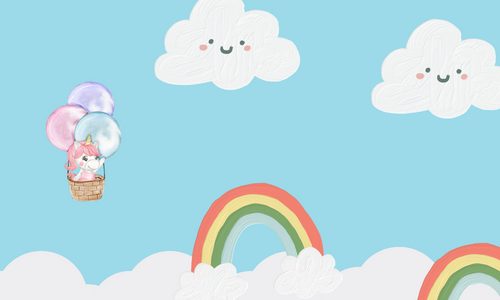
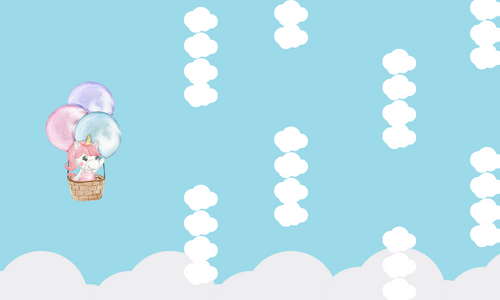
画像入れ込み

diff --git a/bird.js b/bird.js
@@ -1,13 +1,26 @@
 $(function(){
-	$window = $('.window'),
+  $window = $('.window'),
 	$bird = $('.bird'),
   fallTime = 1000,
   gapHeight = 150,
-  gameState = 2, /* 1:ゲーム中 ,2:ゲーム終了 */
+  gameState = 2,
   startTime = Date.now(),
   result = '0m',
   pipeId = 0;
+  var arg  = new Object;
+  url = location.search.substring(1).split('&');
+ 
+  for(i=0; url[i]; i++) {
+    var k = url[i].split('=');
+    arg[k[0]] = k[1];
+  }
   
+  var id = arg.mode;
+  $(".retry").attr('href', $('.retry').attr('href') + id);
+ 
+  if (id == 'boy') {
+    $(".window").addClass("boy").removeClass(".girl");
+  }
 
 	var int = setInterval(function(){
     if(gameState === 1){
@@ -22,10 +35,10 @@ $(function(){
     }
   }, 10);
 
-  /* マウスクリック */ 
-	$window.mousedown(function(){
+  $window.mousedown(function(){
     $('.start_btn').hide();
-    $('.window').addClass('scroll');
+    //$('.window').addClass('scroll');
+
 		birdFlap();
     if(gameState === 2){
       gameState = 1;
@@ -33,7 +46,7 @@ $(function(){
     }
 	});
   
-	$(window).keydown(function(e){
+  $(window).keydown(function(e){
 		if(e.keyCode === 32){
       $('.start_btn').hide();
 			birdFlap();
@@ -55,7 +68,7 @@ $(function(){
 	  }, 2050);
   }
   
-	function birdFlap(){
+  function birdFlap(){
     if(gameState === 1 || gameState === 2){
       $bird.css('transform', 'rotate(-20deg)');
 		  $bird.stop().animate({
@@ -71,21 +84,20 @@ $(function(){
           var end = Date.now();
           result = Math.floor((end - startTime)/1000) + 'm';
           $('.score').html(result);
+          $('.result').html(result);
         });
 	  	});
-    } 
+    }
 	}
 
-	function gravity(){
-    if(gameState === 1){
-      birdPercent = parseInt($bird.css('bottom')) / $window.height();
-      totalFallTime = fallTime * birdPercent;
-		  $bird.stop().animate({
-		  	bottom: '0'
-		  }, totalFallTime, 'linear');
-  
-      $bird.css('transform', 'rotate(90deg)');
-    }
+  function gravity(){
+    birdPercent = parseInt($bird.css('bottom')) / $window.height();
+    totalFallTime = fallTime * birdPercent;
+		$bird.stop().animate({
+			bottom: '0'
+		}, totalFallTime, 'linear');
+
+    $bird.css('transform', 'rotate(90deg)');
 	}
 
   /* おじゃま虫バーを表示 */
@@ -109,35 +121,33 @@ $(function(){
 		});
 	}
   
-  /* unicornの動きでGameOver条件*/
+
   function birdPos(){
-    /* 下にくっついたらGameover*/
     if(parseInt($bird.css('bottom')) === 0 || parseInt($bird.css('top')) === 0){
       gameEnd();
     }
-    /* パイプにくっついたらGameover*/
-    $(".pipe").each(function(i, elem) {
-      curPipe = $(elem);
-  
-      if(($bird.offset().left + $bird.width()) >= curPipe.offset().left && $bird.offset().left <= (curPipe.offset().left + curPipe.width())){
-        pipeTop = $(elem).children('.topHalf');
-        pipeBottom = $(elem).children('.bottomHalf');
+    
+    curPipe = $('.pipe:nth-of-type(5)');
+    if(curPipe.length > 0){
+      pipeTop = $('.pipe:nth-of-type(5) .topHalf');
+      pipeBottom = $('.pipe:nth-of-type(5) .bottomHalf');
 
-        if($bird.position().top < (curPipe.position().top + pipeTop.height()) || ($bird.position().top + $bird.height()) > ((curPipe.position().top + pipeTop.height()) +   gapHeight)){  
+
+      if(($bird.offset().left + $bird.width()) >= curPipe.offset().left && $bird.offset().left <= (curPipe.offset().left + curPipe.width())){
+        if($bird.offset().top < (curPipe.offset().top + pipeTop.height()) || ($bird.offset().top + $bird.height()) > ((curPipe.offset().top + pipeTop.height()) +   gapHeight)){
           gameEnd();
         }
+      } else if($bird.offset().left >= (curPipe.offset().left + curPipe.width())){
       }
-    });
+    }
   }
-  
+
   function gameEnd(){
   	clearInterval(birdPosInterval);
-    $('.window').removeClass('scroll');
   	$('.pipe').stop();
-    $('.finishArea').show();
-    $('.result').html(result);
-
-  	gameState = 2;
     gravity();
+  	gameState = 0;
+    $('.finishArea').show();
   }
+
 })

diff --git a/game.css b/game.css
@@ -44,7 +44,11 @@ Base
   margin-bottom: calc(10/750*100vw);
 }
 .window.girl {
-  background: url('./_img/bg_unicorn.jpg') repeat-x;
+  background: url('./_img/game/girl/background.png') repeat-x;
+  background-size: 50% 100%;
+}
+.window.boy {
+  background: url('./_img/game/boy/background.png') repeat-x;
   background-size: 50% 100%;
 }
 .window.scroll {
@@ -55,9 +59,7 @@ Base
 		background-position: -100% 0;
 	}
 }
-.window.boy {
-  background: url('https://cdn.piapro.jp/thumb_i/2w/2w87hv4no5jw307p_20200828185012_0740_0500.png');
-}
+
 
 @media screen and (min-width: 641px) {
   .game_wrap {
@@ -90,6 +92,7 @@ Base
   padding: calc(15/750*100vw) 0;
   font-size: 2em;
   font-weight: 800;
+  text-decoration: none;
 }
 
 
@@ -123,33 +126,45 @@ Base
   }
   
   /* Bird */
-  .bird {
-      height: calc(130/750*100vw);
-      width: calc(80/750*100vw);
-      background: url('./_img/unicorn.png') no-repeat;
+  .window.girl .bird {
+      height: calc(130/700*100vw);
+      width: calc(80/700*100vw);
+
+      background: url('./_img/game/girl/bird.png') no-repeat;
       background-size: 100% auto;
       position: absolute;
       bottom: 50%;
       left: 130px;
       z-index: 3;
-    animation: birdFlap 0.8s steps(3, end) infinite alternate;
-    transition: transform 0.5s;
+      animation: unicornFlap 0.8s steps(3, end) infinite alternate;
+      transition: transform 0.5s;
   }
-  
-  @keyframes birdFlap {  
-    /*0% {background-position: 0 84px;}
-    100% {background-position: 0 0;}*/
-    0% , 100%{
-      transform: rotate(10deg);
-    }
-    50%{
-      transform: rotate(-10deg);
-    }
+  .window.boy .bird {
+    height: calc(130/700*100vw);
+    width: calc(80/700*100vw);
+    background: url('./_img/game/boy/bird.png') no-repeat;
+    background-size: 100% auto;
+    position: absolute;
+    bottom: 50%;
+    left: 130px;
+    z-index: 3;
+
+}
+@keyframes unicornFlap {  
+  /*0% {background-position: 0 84px;}
+  100% {background-position: 0 0;}*/
+  0% , 100%{
+    transform: rotate(10deg);
   }
+  50%{
+    transform: rotate(-10deg);
+  }
+}
+
   
   /* Pipes */
   .pipe {
-      width: 60px;
+      width: calc(120/700*100vw);;
       height: 100%;
       position: absolute;
       right: -60px;
@@ -160,19 +175,31 @@ Base
     display: none;
   }
   
-  .pipe .topHalf {
-      /*background: url('https://s21.postimg.org/kyr2rnpzr/pipe.png') bottom;*/
-      background: rgba(0,0,0,0.2);
+  .window.girl .pipe .topHalf {
+      background: url('./_img/game/girl/bar.png') bottom;
+      background-repeat: repeat-y;
+      background-size: 100% auto;
       position: absolute;
       top: 0;
       width: 100%;
-  }
-  
-  .pipe .bottomHalf {
-    background: rgba(0,0,0,0.2);
-      position: absolute;
+  }  
+  .window.girl .pipe .bottomHalf {
+    background: url('./_img/game/girl/bar.png') top;
+    background-repeat: repeat-y;
+    background-size: 100% auto;
+    position: absolute;
       bottom: 0;
       width: 100%;
+  }
+  .window.boy .pipe .topHalf {
+    background: url('./_img/game/boy/bar.png') bottom;
+    background-repeat: repeat-y;
+    background-size: 100% auto;
+  } 
+  .window.boy .pipe .bottomHalf {
+    background: url('./_img/game/boy/bar.png') top;
+    background-repeat: repeat-y;
+    background-size: 100% auto;
   }
   .finishArea {
     display: none;

diff --git a/game.html b/game.html
@@ -29,7 +29,7 @@
 
 <script
   src="https://code.jquery.com/jquery-3.4.1.min.js"
-  integrity="sha256-CSXorXvZcTkaix6Yvo6HppcZGetbYMGWSFlBw8HfCJo="
+  integrity="sha2window56-CSXorXvZcTkaix6Yvo6HppcZGetbYMGWSFlBw8HfCJo="
   crossorigin="anonymous"></script>
 
 
@@ -63,7 +63,7 @@
         <p><a href="http://twitter.com/share?url=https://google.com&text=結果がでたよ&via=[ツイート内に含むユーザ名]&related=[ツイート後に表示されるユーザー]&hashtags=[ハッシュタグ]" target="_blank">
           けっかをツイートする
         </a></p>-->
-        <p><a href="./game.html">
+        <p><a href="./game.html?mode=" class="retry">
           もういっかいがんばる
         </a></p>
         <p><a href="./index.html">
@@ -73,8 +73,10 @@
       </div>
     </section>
 
-
-    
-
+    <section class="">
+      <a href="./index.html" class="fullscreen_btn">
+        ゲームせんたくにもどる
+      </a>
+    </section>
   </div>
 </body>

diff --git a/index.html b/index.html
@@ -48,15 +48,15 @@
     </section>
     <section class="secMenu">
       <div class="sMenu_item">
-        <p class="sMenu_item__title c-pink">飛べ！カブトムシ！</p>
-        <a href="./game.html" class="menu_btn">
+        <p class="sMenu_item__title c-pink">飛べ！ブロックロボ！</p>
+        <a href="./game.html?mode=boy" class="menu_btn">
           <div class="sMenu_item__img"><img src="./_img/index/thum_boy.png"></div>
           <p class="sMenu_item__btn c-white">ゲームをはじめる！</p>
         </a>
       </div>
       <div class="sMenu_item">
         <p class="sMenu_item__title c-pink">ユニコーンとお城を目指せ</p>
-        <a href="./game.html" class="menu_btn">
+        <a href="./game.html?mode=girl" class="menu_btn">
           <div class="sMenu_item__img"><img src="./_img/index/thum_girl.png"></div>
           <p class="sMenu_item__btn c-white">ゲームをはじめる！</p>
         </a>
